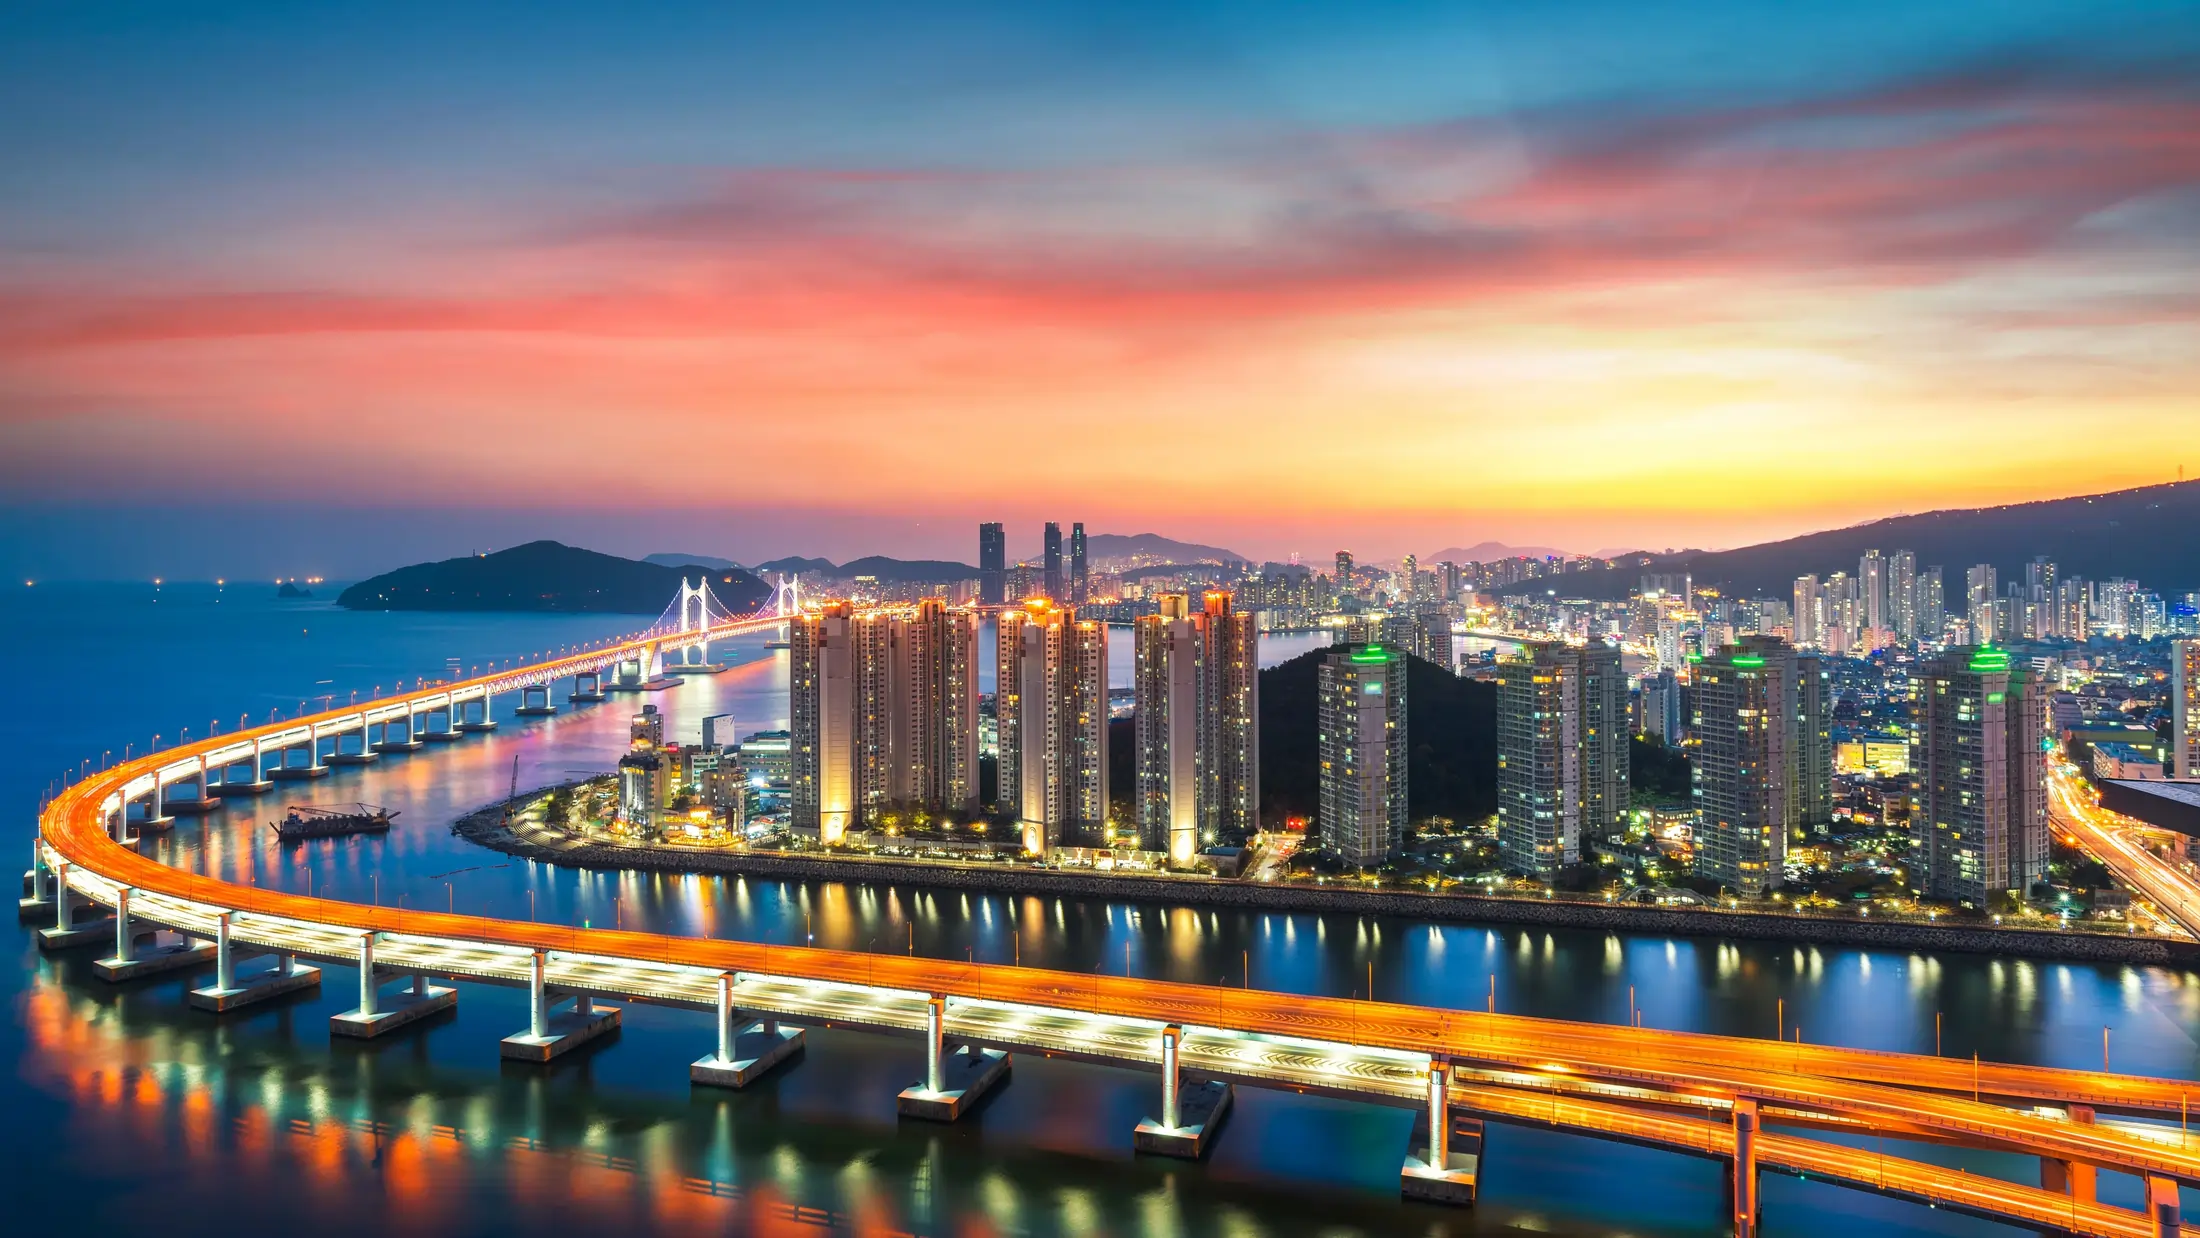
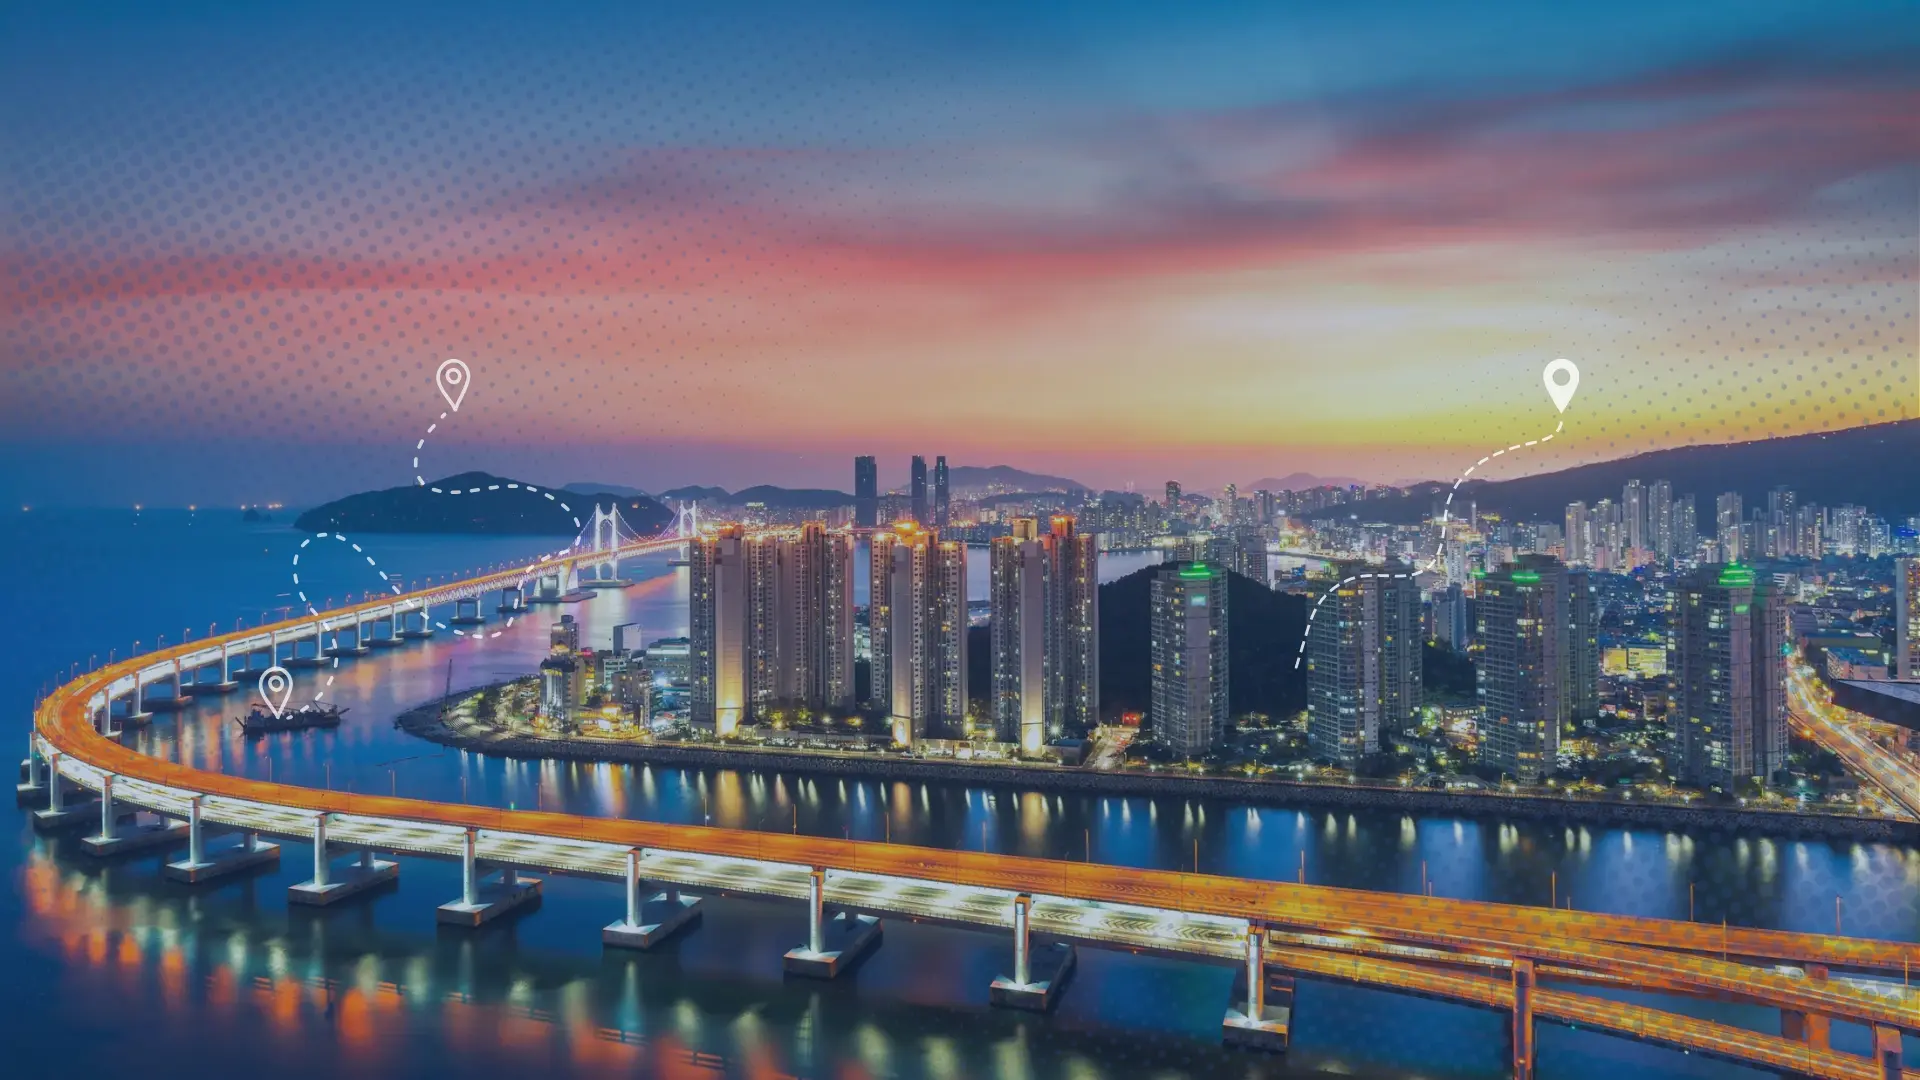
error fixed

diff --git a/Backend/routes/dfalocationRoutes.js b/Backend/routes/dfalocationRoutes.js
@@ -6,13 +6,14 @@ import {
     deleteLocation
 } from "../controllers/dfaLocationController.js";
 
+
+const router = express.Router();
+
 import authorizeRoles from "../middleware/authorizeRoles.js";
 import userAuth from "../middleware/userAuth.js";
 
 router.use(userAuth);
 const staffOnly = authorizeRoles('Admin', 'Employee');
-
-const router = express.Router();
 
 router.get("/get-dfalocation", getLocations);
 router.post("/create-dfalocation", staffOnly, createLocation);